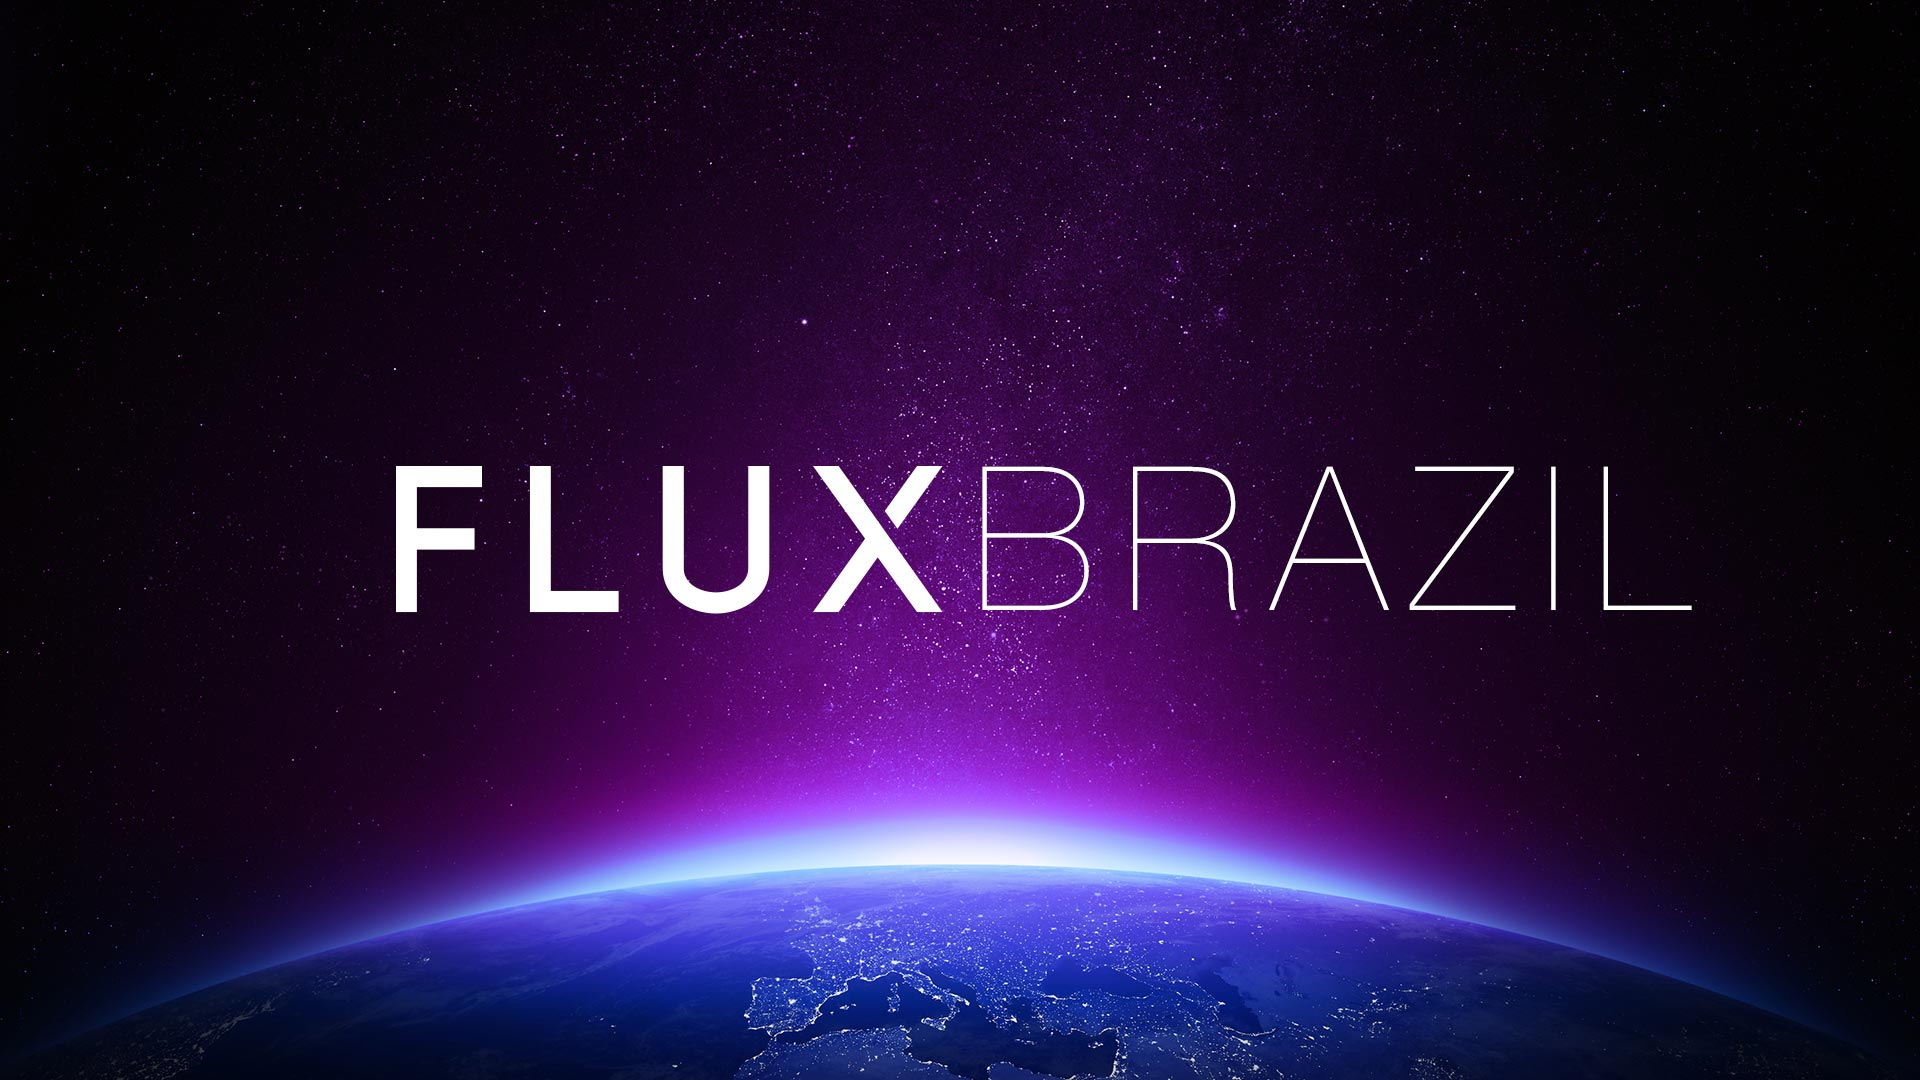
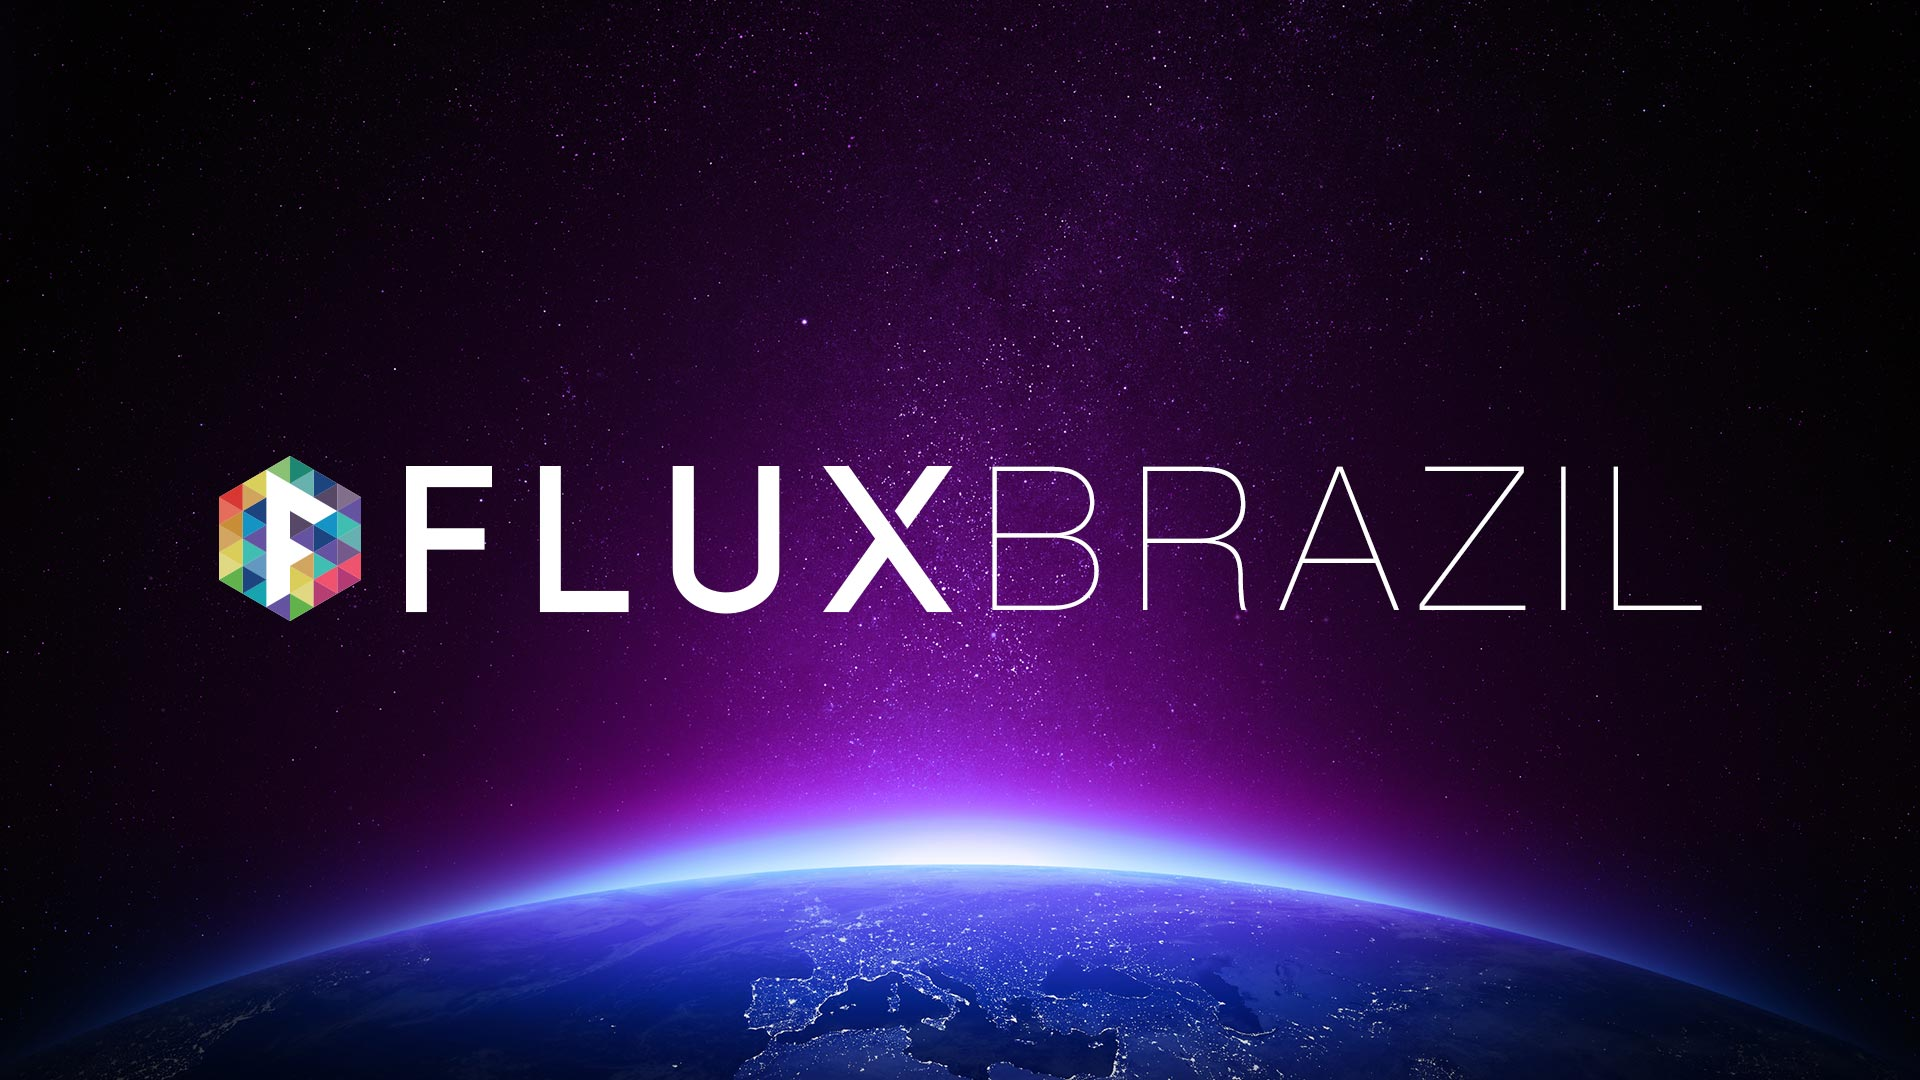
General mods

diff --git a/lib/script/js/scripts-min.js b/lib/script/js/scripts-min.js
@@ -1,1 +1,1 @@
-!function($,e,o){$(function(){"use strict";var e=new TimelineLite,o=new TimelineLite;$(".site-hdr-inr").click(function(){0==e._totalDuration||(0==e.progress()?e.play():1==e.progress()&&e.reverse()),navState=!navState}),$(".wpml-ls-item a span").each(function(e,o){var t=$(o).html(),n="";"English"==t?n="EN":"Português"==t&&(n="BR"),$(o).html(n)}),$("#btn-cta").click(function(o){o.preventDefault(),e.to($(".homepage-block-content-wrp"),1,{autoAlpha:0},0),e.to($(".site-bg"),4,{backgroundPosition:"center top",ease:Power4.easeInOut},.5),e.to($(".site-lgo-sub"),1,{opacity:1},.5),e.to($(".homepage-block-signup-wrp"),4,{top:0,ease:Power4.easeInOut},.5)});var t;$("#formContact").submit(function(e){o.to($(".site-submit"),.25,{width:"+=100px",repeat:-1,yoyo:!0},0),t&&t.abort();var n=$(this),a=n.find("input, select, button, textarea"),s=n.serialize();a.prop("disabled",!0),t=$.ajax({url:"https://script.google.com/macros/s/AKfycbxHPKbw14oxLREpkxVjR2D_HNntB_UEBsvicO8TZcARb2-QwuU/exec",type:"post",data:s}),t.done(function(e,o,t){console.log("Hooray, it worked!"),console.log(e),console.log(o),console.log(t),TweenMax.to($(".homepage-signup-form-wrp"),1,{autoAlpha:0}),TweenMax.to($(".homepage-signup-form-wrp"),1,{height:0,delay:1})}),t.fail(function(e,o,t){console.error("The following error occurred: "+o,t)}),t.always(function(){a.prop("disabled",!1),TweenMax.to($(".homepage-signup-rsp-success"),1,{autoAlpha:1}),TweenMax.to($(".homepage-signup-rsp-success"),1,{height:"100%",delay:1})}),e.preventDefault()})})}(jQuery,this);
+!function($,e,o){$(function(){"use strict";var e=new TimelineLite,o=new TimelineLite;$(".site-hdr-inr").click(function(){0==e._totalDuration||(0==e.progress()?e.play():1==e.progress()&&e.reverse()),navState=!navState}),$(".wpml-ls-item a span").each(function(e,o){var t=$(o).html(),n="";"English"==t?n="EN":"Português"==t&&(n="BR"),$(o).html(n)}),$("#btn-cta").click(function(o){o.preventDefault(),e.to($(".homepage-block-content-wrp"),1,{autoAlpha:0},0),e.to($(".site-bg"),4,{backgroundPosition:"center top",ease:Power4.easeInOut},.5),e.to($(".site-lgo-sub"),1,{opacity:1,width:200},.5),e.to($(".homepage-block-signup-wrp"),4,{top:0,ease:Power4.easeInOut},.5)});var t;$("#formContact").submit(function(e){o.to($(".site-submit"),.25,{width:"+=100px",repeat:-1,yoyo:!0},0),t&&t.abort();var n=$(this),a=n.find("input, select, button, textarea"),s=n.serialize();a.prop("disabled",!0),t=$.ajax({url:"https://script.google.com/macros/s/AKfycbxHPKbw14oxLREpkxVjR2D_HNntB_UEBsvicO8TZcARb2-QwuU/exec",type:"post",data:s}),t.done(function(e,o,t){console.log("Hooray, it worked!"),console.log(e),console.log(o),console.log(t),TweenMax.to($(".homepage-signup-form-wrp"),1,{autoAlpha:0}),TweenMax.to($(".homepage-signup-form-wrp"),1,{height:0,delay:1})}),t.fail(function(e,o,t){console.error("The following error occurred: "+o,t)}),t.always(function(){a.prop("disabled",!1),TweenMax.to($(".homepage-signup-rsp-success"),1,{autoAlpha:1}),TweenMax.to($(".homepage-signup-rsp-success"),1,{height:"100%",delay:1})}),e.preventDefault()})})}(jQuery,this);

diff --git a/style.css b/style.css
@@ -424,15 +424,23 @@ body {
   width: auto;
   height: 40px; }
 
+.site-lgo-hdr-txt {
+  top: 10px;
+  height: 20px;
+  margin-left: 10px; }
+
 .site-lgo-sub {
   position: relative;
   display: inline-block;
   float: left;
   opacity: 0;
-  padding-top: 1px;
-  padding-left: 5px;
+  white-space: nowrap;
+  overflow: hidden;
+  padding-left: 10px;
+  top: 0px;
+  width: 0;
   font-family: "Helvetica Neue LT W01_35 Thin", sans-serif;
-  font-size: 21px;
+  font-size: 28px;
   line-height: 40px;
   letter-spacing: 2px;
   text-transform: uppercase; }
@@ -501,7 +509,13 @@ body {
 .wpml-ls-current-language a span {
   font-family: "Helvetica Neue LT W01_71488914", sans-serif !important; }
 
+@media only screen and (max-width: 800px) {
+  .site-lgo-hdr-txt {
+    display: none; } }
+
 @media only screen and (max-width: 414px) {
+  .site-lgo-sub {
+    display: none; }
   .menu-item {
     display: none !important; }
   .wpml-ls-item {
@@ -555,7 +569,7 @@ body {
 .homepage-txt-wrp {
   margin-bottom: 30px; }
 
-@media only screen and (max-width: 768px) {
+@media only screen and (max-width: 800px) {
   .homepage-lgo-wrp {
     margin-bottom: 20px;
     padding-left: 20px;
@@ -638,7 +652,7 @@ body {
   color: #FFF;
   border: none;
   background: none;
-  background-image: linear-gradient(90deg, rgba(33, 33, 43, 0) 0%, rgba(33, 33, 43, 0.75) 25%, rgba(33, 33, 43, 0.75) 75%, rgba(33, 33, 43, 0) 100%);
+  background-image: linear-gradient(90deg, rgba(33, 33, 43, 0) 0%, #21212b 25%, #21212b 75%, rgba(33, 33, 43, 0) 100%);
   mix-blend-mode: exclusion; }
 
 .site-input-textarea {
@@ -748,7 +762,7 @@ body {
 .site-input-checkbox-label:hover, .site-input-checkbox-label:checked {
   color: #FFF; }
 
-@media only screen and (max-width: 768px) {
+@media only screen and (max-width: 800px) {
   .site-form-wrp {
     width: 100%; } }
 

diff --git a/lib/sass/_site-layout.scss b/lib/sass/_site-layout.scss
@@ -40,10 +40,18 @@ body {
             width: auto; height: 40px;
         }
 
+            .site-lgo-hdr-txt {
+                top: 10px;
+                height: 20px;
+                margin-left: 10px;
+            }
+
         .site-lgo-sub {
-            @include pos-Relative; opacity: 0;
-            padding-top: 1px; padding-left: 5px;
-            font-family: $font-Thin; font-size: 21px; line-height: 40px; letter-spacing: 2px;
+            @include pos-Relative; opacity: 0; white-space: nowrap; overflow: hidden;
+            padding-left: 10px;
+            top: 0px;
+            width: 0;
+            font-family: $font-Thin; font-size: 28px; line-height: 40px; letter-spacing: 2px;
             text-transform: uppercase;
         }
 
@@ -113,11 +121,16 @@ and (max-width: $canvas-bp-lrg) {
 
 @media only screen
 and (max-width: $canvas-bp-med) {
-
+    .site-lgo-hdr-txt {
+        display: none;
+    }
 }
 
 @media only screen
 and (max-width: $canvas-bp-sml) {
+    .site-lgo-sub {
+        display: none;
+    }
     .menu-item {
         display: none !important;
     }

diff --git a/lib/sass/_site-form.scss b/lib/sass/_site-form.scss
@@ -21,7 +21,7 @@
 
             border: none;
             background: none;
-            background-image: linear-gradient(90deg, rgba($col-dark, 0) 0%, rgba($col-dark, 0.75) 25%, rgba($col-dark, 0.75) 75%, rgba($col-dark, 0) 100%);
+            background-image: linear-gradient(90deg, rgba($col-dark, 0) 0%, rgba($col-dark, 1) 25%, rgba($col-dark, 1) 75%, rgba($col-dark, 0) 100%);
             mix-blend-mode: exclusion;
         }
 

diff --git a/lib/script/js/scripts.js b/lib/script/js/scripts.js
@@ -39,7 +39,7 @@
 			e.preventDefault();
 			navGrip.to($('.homepage-block-content-wrp'), 1, {autoAlpha:0}, 0);
 			navGrip.to($('.site-bg'), 4, {backgroundPosition:"center top", ease: Power4.easeInOut}, 0.5);
-			navGrip.to($('.site-lgo-sub'), 1, {opacity:1}, 0.5);
+			navGrip.to($('.site-lgo-sub'), 1, {opacity:1, width:200}, 0.5);
 			navGrip.to($('.homepage-block-signup-wrp'), 4, {top:0, ease: Power4.easeInOut}, 0.5);
 		})
 

diff --git a/lib/sass/_lib-settings.scss b/lib/sass/_lib-settings.scss
@@ -44,7 +44,7 @@
 
 //Breakpoints
 $canvas-bp-lrg: 1080px;
-$canvas-bp-med: 768px;
+$canvas-bp-med: 800px;
 $canvas-bp-sml: 414px;
 
 

diff --git a/functions.php b/functions.php
@@ -421,8 +421,8 @@ function facebook_open_graph() {
 
     //You'll need to find you Facebook profile Id and add it as the admin
     echo '<meta property="fb:admins" content="100003264376054"/>'."\n";
-    echo '<meta property="og:title" content="'.$metaTitle.'"/>'."\n";
-    echo '<meta property="og:description" content="' . $excerpt . '"/>'."\n";
+    echo '<meta property="og:title" content="Flux Brazil"/>'."\n";
+    echo '<meta property="og:description" content="Vote on bills, not politicians. Vote for changes, not promises. A party for a new democracy."/>'."\n";
     echo '<meta property="og:type" content="article"/>';
     echo '<meta property="og:url" content="' . get_permalink() . '"/>'."\n";
 
@@ -430,10 +430,10 @@ function facebook_open_graph() {
     echo '<meta name="twitter:card" content="summary" />'."\n";
 
     //This is the site Twitter @username to be used at the footer of the card
-    echo '<meta name="twitter:site" content="@MoneyBrilliant />'."\n";
+    echo '<meta name="twitter:site" content="@voteflux />'."\n";
 
     // Customize the below with the name of your site
-    echo '<meta property="og:site_name" content="Your Site NAME Goes HERE"/>'."\n";
+    echo '<meta property="og:site_name" content="Flux Brazil"/>'."\n";
 
     $imgSrc = get_template_directory_uri()."/lib/asset/img/Flux-OG.jpg";
     // $bgImg = buildBgImg($post->ID, 'large', 'get_sub_');

diff --git a/header.php b/header.php
@@ -32,7 +32,9 @@
 		<!-- <div class="grid-mid"></div> -->
 		<header class="site-hdr-wrp">
 			<div class="site-hdr-inr">
-				<img class="site-lgo-hdr" src="<?php echo get_template_directory_uri(); ?>/lib/asset/img/FluxLogo-Lockup.svg" /><div class="site-lgo-sub"><?php the_title(); ?></div>
+				<img class="site-lgo-hdr" src="<?php echo get_template_directory_uri(); ?>/lib/asset/img/FluxLogo-Icon.png" />
+				<img class="site-lgo-hdr site-lgo-hdr-txt" src="<?php echo get_template_directory_uri(); ?>/lib/asset/img/FluxLogo-Text.svg" />
+				<div class="site-lgo-sub"><?php the_title(); ?></div>
 			</div>
 			<nav class="site-nav-wrp">
 				<ul class="site-nav-inr"><?php wp_nav_menu( array( 'items_wrap' => '%3$s', 'theme_location' => 'header-menu' ) ); ?></ul>
